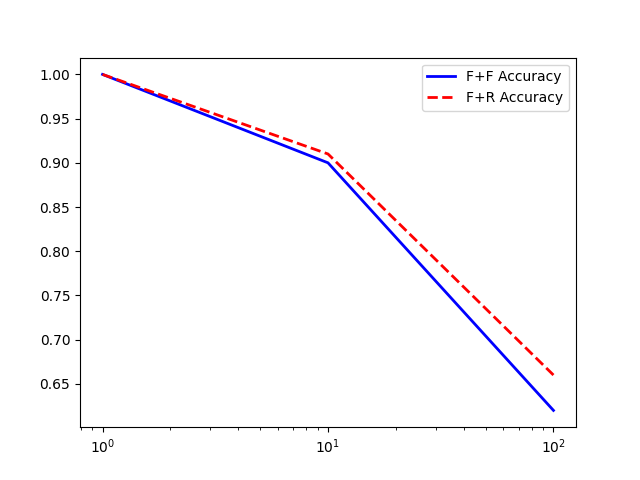
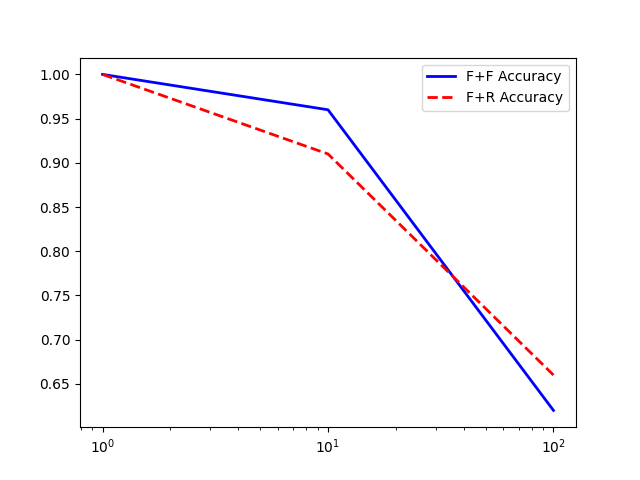
added ccx eval

diff --git a/data/amd/ccx-comp.py b/data/amd/ccx-comp.py
@@ -1,0 +1,67 @@
+import numpy as np
+import matplotlib.pyplot as plt
+from scipy.stats import norm
+from sklearn import metrics
+
+from matplotlib.ticker import NullFormatter  # useful for `logit` scale
+
+mh2 = 124
+sh2 = 16.5
+mm2 = 378
+sm2 = 145
+
+mh1 = 326.70
+sh1 = 101.20
+mm1 = 797.34
+sm1 = 121.07    
+
+mh3 = 331.78
+sh3 = 37.83 
+mm3 = 370.66
+sm3 = 61.30 
+
+plt.xlim(0, 1000)
+xmin, xmax = plt.xlim()
+x = np.linspace(xmin, xmax, 100)
+
+h2 = norm.pdf(x, mh2, sh2)
+plt.plot(x, h2, 'r-', linewidth=2, label="Same-Core Hits")
+
+m2 = norm.pdf(x, mm2, sm2)
+plt.plot(x, m2, 'r--', linewidth=2, label="Same-Core Misses")
+
+h1 = norm.pdf(x, mh1, sh1)
+plt.plot(x, h1, 'b-', linewidth=2, label="Same-CCX Hits")
+
+m1 = norm.pdf(x, mm1, sm1)
+plt.plot(x, m1, 'b--', linewidth=2, label="Same-CCX Misses")
+
+h3 = norm.pdf(x, mh3, sh3)
+plt.plot(x, h3, 'g-', linewidth=2, label="Cross-CCX Hits")
+
+m3 = norm.pdf(x, mm3, sm3)
+plt.plot(x, m3, 'g--', linewidth=2, label="Cross-CCX Misses")
+
+plt.legend()
+plt.show()
+
+f,(ax,ax2) = plt.subplots(1,2,sharey=True, facecolor='w')
+
+ax.plot(x, h1, 'b-', linewidth=2, label="1kHz Hits")
+ax2.plot(x, m1, 'b--', linewidth=2, label="1kHz Misses")
+ax.plot(x, h2, 'r-', linewidth=2, label="10kHz Hits")
+ax2.plot(x, m2, 'r--', linewidth=2, label="10kHz Misses")
+ax.plot(x, h3, 'g-', linewidth=2, label="100kHz Hits")
+ax2.plot(x, m3, 'g--', linewidth=2, label="100kHz Misses")
+
+ax.set_xlim(30,55)
+ax2.set_xlim(255,280)
+
+ax.spines['right'].set_visible(False)
+ax2.spines['left'].set_visible(False)
+ax.yaxis.tick_left()
+ax.tick_params(labelright='off')
+ax2.yaxis.tick_right()
+
+plt.legend()
+plt.show()

diff --git a/data/intel/transmissions.py b/data/intel/transmissions.py
@@ -1,7 +1,7 @@
 import matplotlib.pyplot as plt
 
 freqs = [1, 10, 100]
-ff_acc = [1,0.9, 0.62 ]
+ff_acc = [1,0.96, 0.62 ]
 fr_acc = [1, 0.91, 0.66]
 
 fig = plt.figure()
